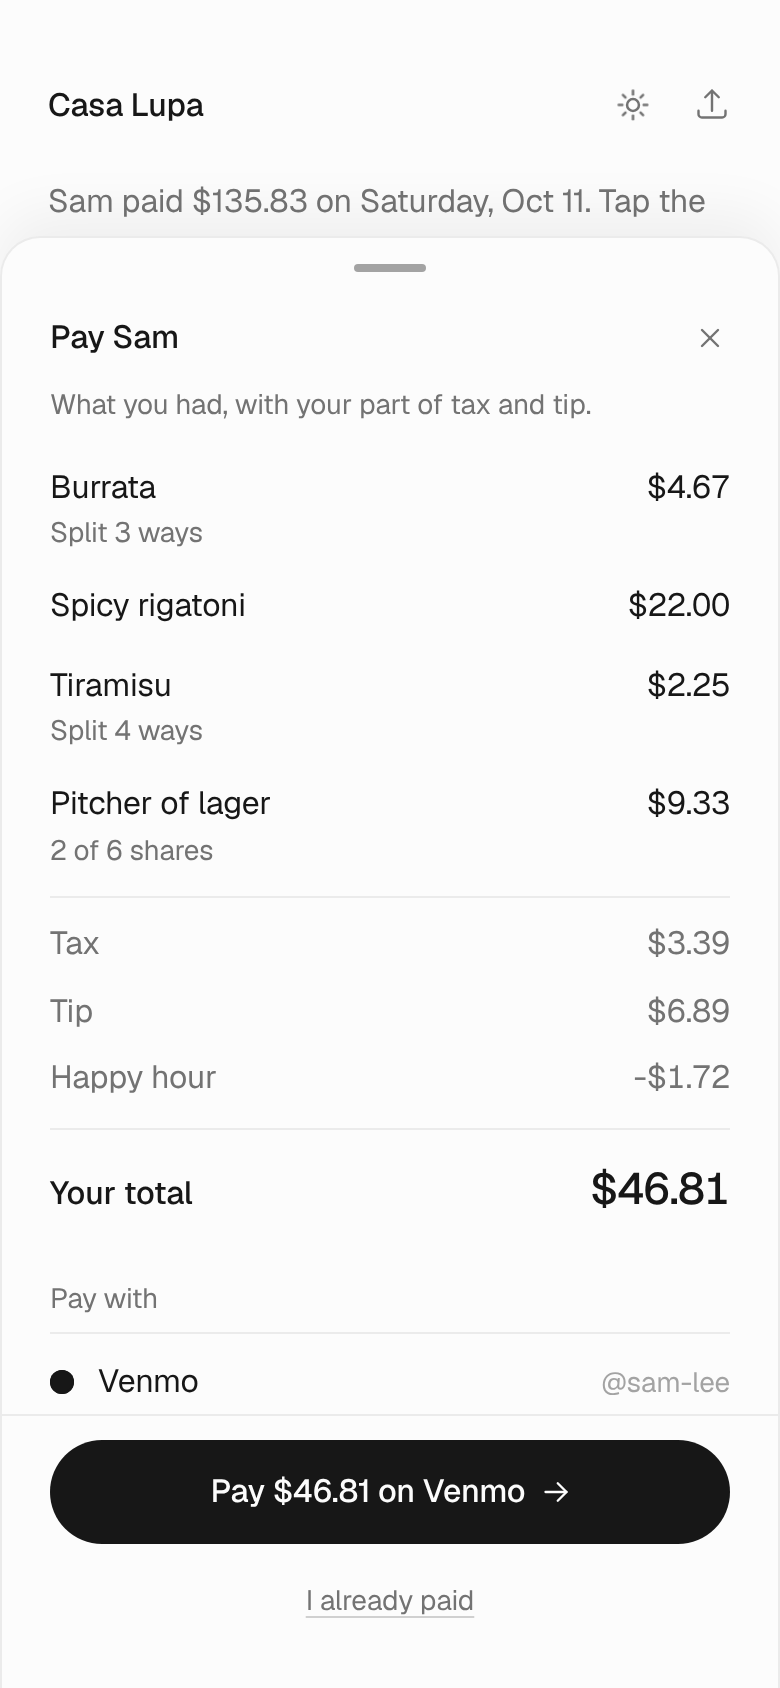
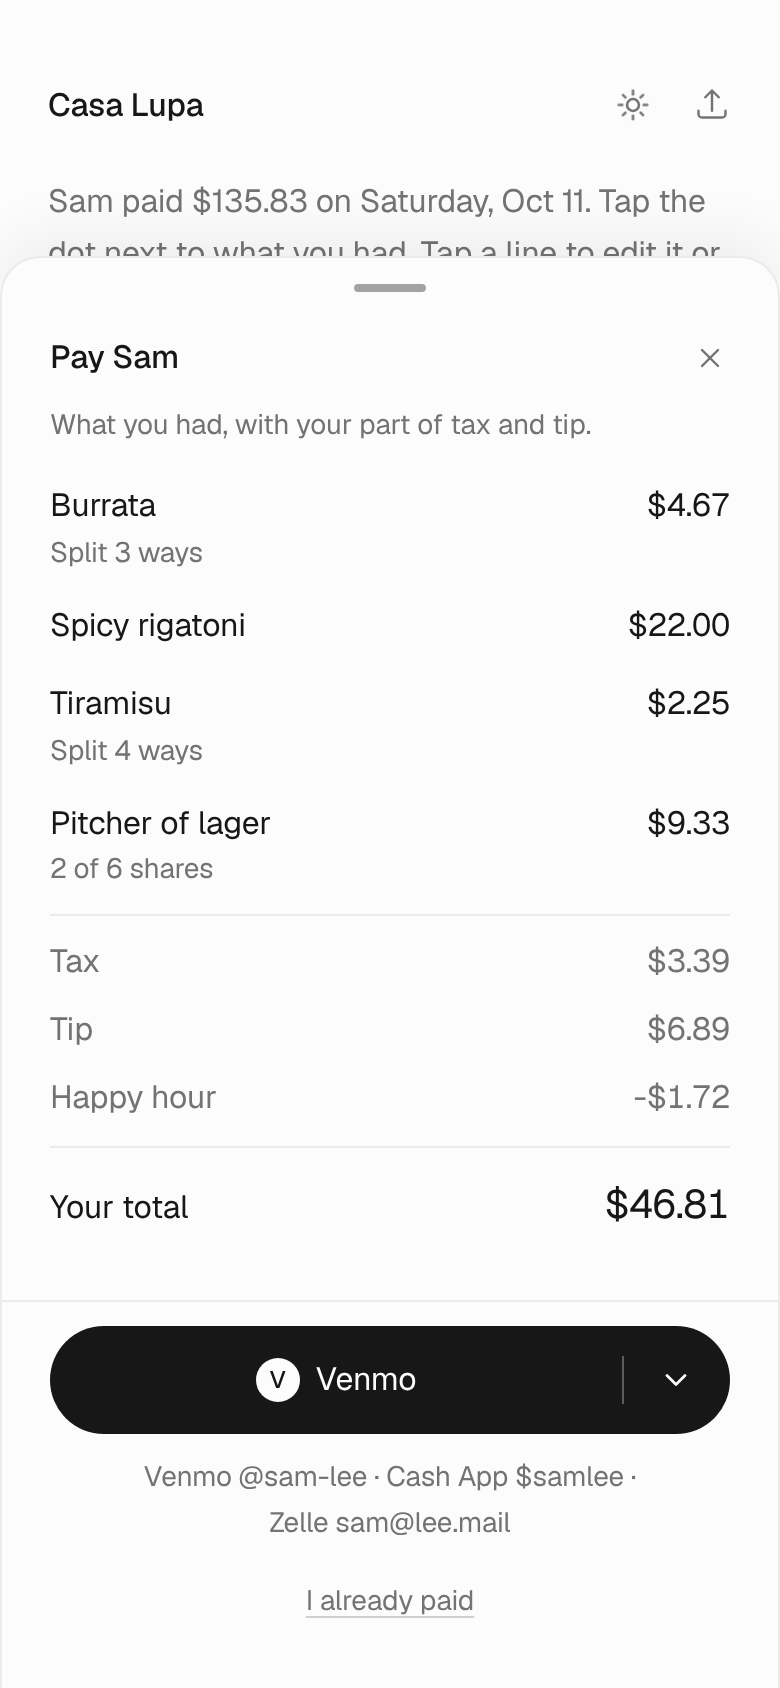
docs(design): keep the original pay pill in the B2 Pay sheet
The operator preferred today's pill, with the app switcher inside it,
over a radio list, and asked for regular weight in the lists.

Claude-Session: https://claude.ai/code/session_016x8VAK4vSURmZ58jd7QJKC

diff --git a/docs/design/b2/split.dc.html b/docs/design/b2/split.dc.html
@@ -105,18 +105,26 @@ body{margin:0}
 .b-pnote{display:block;font-size:14px;line-height:20px;color:var(--muted)}
 .b-pcharges{margin-top:6px;padding-top:6px;border-top:1px solid var(--line);color:var(--muted)}
 .b-pcharges .b-pline{padding:4px 0}
-.b-ptotal{display:flex;justify-content:space-between;align-items:baseline;margin-top:8px;padding-top:12px;border-top:1px solid var(--line);font-weight:500;font-variant-numeric:tabular-nums}
+.b-ptotal{display:flex;justify-content:space-between;align-items:baseline;margin-top:8px;padding-top:12px;border-top:1px solid var(--line);font-variant-numeric:tabular-nums}
 .b .b-method{display:flex;align-items:center;gap:12px;width:100%;min-height:48px;border-top:1px solid var(--line);color:var(--muted);transition:color 150ms ease}
 .b .b-method[data-on="true"]{color:var(--fg)}
 .b-method i{flex:none;width:12px;height:12px;border-radius:50%;box-shadow:inset 0 0 0 1px var(--faint);transition:background-color 150ms ease,box-shadow 150ms ease}
 .b-method[data-on="true"] i{background:var(--fg);box-shadow:inset 0 0 0 1px var(--fg)}
 .b-handle{margin-left:auto;font-size:14px;color:var(--faint)}
 .b-paybar{flex:none;padding:12px 24px 22px;border-top:1px solid var(--line);background:var(--bg)}
+.b-pill{position:relative;display:flex;height:54px;border-radius:27px;background:var(--fg);color:var(--bg);overflow:hidden;transition:transform 160ms var(--ease-out)}
+.b-pill:has(.b-pillgo:active){transform:scale(.97)}
+.b .b-pillgo{flex:1;min-width:0;display:flex;align-items:center;justify-content:center;gap:8px;font-size:16px;color:var(--bg)}
+.b-mark{width:22px;height:22px;border-radius:11px;background:var(--bg);color:var(--fg);display:grid;place-items:center;font-size:12px;font-weight:500}
+.b-switch{position:relative;flex:none;width:54px;display:grid;place-items:center;color:var(--bg)}
+.b-switch i{position:absolute;left:0;top:15px;width:1px;height:24px;background:currentColor;opacity:.3}
+.b-switch select{position:absolute;inset:0;opacity:0;width:100%;height:100%;cursor:pointer;font-size:16px}
+.b-handles{margin:10px 4px 0;text-align:center;font-size:14px;color:var(--muted)}
 .b .b-paybtn{width:100%;height:52px;border-radius:26px;background:var(--fg);color:var(--bg);display:flex;align-items:center;justify-content:center;gap:8px;font-size:16px;font-weight:500;transition:transform 160ms var(--ease-out)}
 .b .b-paybtn:active{transform:scale(.97)}
 .b .b-already{display:block;margin:6px auto 0;height:44px;font-size:14px;color:var(--muted);text-decoration-line:underline;text-decoration-thickness:1px;text-underline-offset:3px;text-decoration-color:var(--underline);transition:color 150ms ease}
 .b .b-already:active{color:var(--fg)}
-.b-paidnote{display:flex;align-items:center;justify-content:center;gap:6px;height:52px;border-radius:26px;box-shadow:inset 0 0 0 1px var(--line);color:var(--ok);font-weight:500}
+.b-paidnote{display:flex;align-items:center;justify-content:center;gap:6px;height:52px;border-radius:26px;box-shadow:inset 0 0 0 1px var(--line);color:var(--ok)}
 .b .b-pay[data-paid="true"]{background:transparent !important;color:var(--ok) !important;box-shadow:inset 0 0 0 1px var(--line)}
 @media (prefers-reduced-motion:reduce){.b-done{animation:none}}
 [data-play] .ai-tray .arrow,.ai-tray[data-play] .arrow{animation:ai-lift 500ms ease-in-out}
@@ -222,7 +230,7 @@ body{margin:0}
 </sc-if>
 
 <div class="b-reveal" style="--i: 3; display: flex; justify-content: space-between; align-items: baseline; margin: 44px 0 12px">
-<h2 style="margin: 0; font-size: 16px; font-weight: 500">Items</h2>
+<h2 style="margin: 0; font-size: 16px; font-weight: 400">Items</h2>
 <span style="font-size: 14px; color: var(--muted); font-variant-numeric: tabular-nums">{{countText}}</span>
 </div>
 <div class="b-rows b-reveal" style="--i: 4">
@@ -265,8 +273,8 @@ body{margin:0}
 </section>
 
 <div style="margin-top: 10px; border-top: 1px solid var(--line); padding: 12px 0 0 26px; display: flex; justify-content: space-between; align-items: baseline; font-variant-numeric: tabular-nums">
-<span style="font-weight: 500">Total</span>
-<span style="font-weight: 500">{{total}}</span>
+<span>Total</span>
+<span>{{total}}</span>
 </div>
 </div>
 
@@ -305,19 +313,17 @@ body{margin:0}
 <div class="b-pline"><span>{{c.name}}</span><span>{{c.amount}}</span></div>
 </sc-for>
 </div>
-<div class="b-ptotal"><span>{{pay.totalLabel}}</span><span style="font-size: 22px; letter-spacing: -0.02em">{{pay.total}}</span></div>
+<div class="b-ptotal"><span>{{pay.totalLabel}}</span><span style="font-size: 20px; letter-spacing: -0.015em">{{pay.total}}</span></div>
 <sc-if value="{{pay.unpaid}}" hint-placeholder-val="{{true}}">
-<div class="b-sechead" style="margin: 26px 0 6px; color: var(--muted)">Pay with</div>
-<div role="radiogroup" aria-label="Pay with">
-<sc-for list="{{pay.methods}}" as="m" hint-placeholder-count="3">
-<button class="b-method" role="radio" aria-checked="{{m.on}}" data-on="{{m.onAttr}}" onClick="{{m.pick}}"><i></i><span>{{m.app}}</span><span class="b-handle">{{m.handle}}</span></button>
-</sc-for>
-</div>
 </sc-if>
 </div>
 <div class="b-paybar">
 <sc-if value="{{pay.unpaid}}" hint-placeholder-val="{{true}}">
-<button class="b-paybtn" data-anim onClick="{{pay.go}}">{{pay.goLabel}}<sc-if value="{{pay.goArrow}}" hint-placeholder-val="{{true}}"><svg class="ai ai-arrow" width="14" height="14" viewBox="0 0 24 24" fill="none" stroke="currentColor" stroke-width="2" stroke-linecap="round" stroke-linejoin="round" aria-hidden="true"><path class="head" d="M13.5 4.5 21 12m0 0-7.5 7.5"></path><path class="line" d="M21 12H3"></path></svg></sc-if></button>
+<div class="b-pill">
+<button class="b-pillgo" data-anim aria-label="{{pay.goName}}" onClick="{{pay.go}}"><sc-if value="{{pay.copyMode}}" hint-placeholder-val="{{false}}"><svg width="17" height="17" viewBox="0 0 24 24" fill="none" stroke="currentColor" stroke-width="1.7" stroke-linecap="round" stroke-linejoin="round" aria-hidden="true"><rect x="8" y="8" width="12" height="12" rx="2"></rect><path d="M16 8V6a2 2 0 0 0-2-2H6a2 2 0 0 0-2 2v8a2 2 0 0 0 2 2h2"></path></svg></sc-if><sc-if value="{{pay.copiedNow}}" hint-placeholder-val="{{false}}"><svg class="ai ai-check" width="17" height="17" viewBox="0 0 24 24" fill="none" stroke="currentColor" stroke-width="2" stroke-linecap="round" stroke-linejoin="round" aria-hidden="true"><path pathLength="1" d="m4.5 12.75 6 6 9-13.5"></path></svg></sc-if><sc-if value="{{pay.showMark}}" hint-placeholder-val="{{true}}"><span class="b-mark" aria-hidden="true">{{pay.glyph}}</span></sc-if><span>{{pay.goLabel}}</span></button>
+<span class="b-switch"><i aria-hidden="true"></i><svg width="18" height="18" viewBox="0 0 24 24" fill="none" stroke="currentColor" stroke-width="1.8" stroke-linecap="round" stroke-linejoin="round" aria-hidden="true"><path d="m6 9 6 6 6-6"></path></svg><select aria-label="Pay with" onChange="{{pay.pickMethod}}" value="{{pay.methodId}}"><sc-for list="{{pay.methods}}" as="m" hint-placeholder-count="3"><option value="{{m.id}}">{{m.app}}</option></sc-for></select></span>
+</div>
+<p class="b-handles">{{pay.handles}}</p>
 <button class="b-already" onClick="{{pay.markPaid}}">I already paid</button>
 </sc-if>
 <sc-if value="{{pay.paid}}" hint-placeholder-val="{{false}}">
@@ -547,7 +553,7 @@ const TAX = 0.08875;
 const TIP = 0.18;
 const DISCOUNT = -500;
 const MODES = [{ key: 'even', label: 'Evenly' }, { key: 'shares', label: 'By shares' }, { key: 'amount', label: 'By amount' }];
-const METHODS = [{ id: 'venmo', app: 'Venmo', handle: '@sam-lee' }, { id: 'cashapp', app: 'Cash App', handle: '$samlee' }, { id: 'zelle', app: 'Zelle', handle: 'sam@lee.mail' }];
+const METHODS = [{ id: 'venmo', app: 'Venmo', glyph: 'V', handle: '@sam-lee' }, { id: 'cashapp', app: 'Cash App', glyph: '$', handle: '$samlee' }, { id: 'zelle', app: 'Zelle', glyph: 'Z', handle: 'sam@lee.mail' }];
 const money = (c) => { const r = Math.round(c); return (r < 0 ? '-$' : '$') + (Math.abs(r) / 100).toFixed(2); };
 const cents = (t) => { const n = parseFloat(String(t == null ? '' : t).replace(/[^0-9.]/g, '')); return isFinite(n) ? Math.round(n * 100) : 0; };
 const byId = {};
@@ -821,9 +827,16 @@ class Component extends DCLogic {
       total: share,
       paid, unpaid: !paid, paidAttr: String(paid),
       paidLine: (isSelf ? 'You' : vName) + ' paid ' + share,
-      methods: METHODS.map((m) => ({ app: m.app, handle: m.handle, on: m.id === method.id, onAttr: String(m.id === method.id), pick: () => this.set({ payWith: m.id }) })),
-      goLabel: method.id === 'zelle' ? (s.copied ? 'Copied' : 'Copy Zelle email') : 'Pay ' + share + ' on ' + method.app,
-      goArrow: method.id !== 'zelle',
+      methods: METHODS.map((m) => ({ id: m.id, app: m.app })),
+      methodId: method.id,
+      pickMethod: (e) => this.set({ payWith: e.target.value, copied: false }),
+      handles: METHODS.map((m) => m.app + '\u00a0' + m.handle).join('\u00a0· '),
+      glyph: method.glyph,
+      copyMode: method.id === 'zelle' && !s.copied,
+      copiedNow: method.id === 'zelle' && !!s.copied,
+      showMark: !(method.id === 'zelle' && s.copied),
+      goLabel: method.id === 'zelle' && s.copied ? 'Copied' : method.app,
+      goName: method.id === 'zelle' ? (s.copied ? 'Copied' : 'Copy ' + method.handle + ' to pay Sam ' + share + ' on Zelle') : 'Pay Sam ' + share + ' on ' + method.app,
       go: () => { if (method.id === 'zelle') { this.set({ copied: true }); clearTimeout(this.copyT); this.copyT = setTimeout(() => this.set({ copied: false }), 1600); } },
       markPaid: () => setPaid(true, 'Marked ' + share + ' as paid'),
       unmark: () => setPaid(false, null),

diff --git a/docs/plans/splitwith-b2.md b/docs/plans/splitwith-b2.md
@@ -374,7 +374,7 @@ Each live lane runs in its own worktree at the PR head, with its own app instanc
 - [ ] Header with the wordmark as the Home button (Appendix B), the theme toggle and the share icon. The menu button goes.
 - [ ] The intro line ("Sam paid $135.83. Tap the dot next to what you had. Tap a line to edit it or split it another way.") and the Receipt, People, Payments and History links that open their existing sheets.
 - [ ] A fixed footer with "Your share" (or "Priya's share"), the amount, the Items count line, and a "Pay Sam" pill.
-- [ ] The pill opens the Pay sheet (decision 25, `docs/design/b2/screens/split-17-pay.png` to `split-21-pay-dark.png`). It lists the viewed person's Items with their part, their part of each Adjustment, and their total, then the Host's payment methods as a radio list, a Pay button for the chosen method (Zelle copies the handle and says "Copied"), and "I already paid". The buttons sit in a bar fixed to the bottom of the sheet. Marking paid closes the sheet, turns the footer pill into a green "✓ Paid", and shows an undo bar. The Pay sheet replaces the folding breakdown and keeps every behavior of `Breakdown` and `PayBlock`.
+- [ ] The pill opens the Pay sheet (decision 25, `docs/design/b2/screens/split-17-pay.png` to `split-21-pay-dark.png`). It lists the viewed person's Items with their part, their part of each Adjustment, and their total, in regular weight, then today's pay pill from `PayBlock` unchanged in behavior (app mark and name, the chevron switcher, Zelle copy, the handles line) and "I already paid". The pill and "I already paid" sit in a bar fixed to the bottom of the sheet. Marking paid closes the sheet, turns the footer pill into a green "✓ Paid", and shows an undo bar. The Pay sheet replaces the folding breakdown and keeps every behavior of `Breakdown` and `PayBlock`.
 - [ ] Desktop renders the same single column, centered (Appendix B).
 
 **You see.**

diff --git a/docs/design/b2/README.md b/docs/design/b2/README.md
@@ -33,7 +33,7 @@ The operator made these calls while iterating. They win over older design docs a
 16. Payments sheet: a monochrome ring with round caps. The selected person's arc is black, the rest gray. Tapping a row selects that person. The ring draws in, one arc after another, when the sheet opens. "Paid" rows read "✓ Paid" in green.
 17. History sheet: every change with an underlined Revert (or Restore) link and an animated undo arrow. The arrow swings back, then the row settles to a gray "✓ Reverted".
 
-25. Pay sheet (operator, 2026-10-14): "Pay Sam" opens a sheet with the person's Items and their part of each, their part of tax, tip and discounts, and their total. Below it, the Host's payment methods as a radio list, a Pay button for the chosen one (Zelle copies the handle), and "I already paid". The two buttons stay fixed at the bottom of the sheet. Marking paid closes the sheet, shows an undo bar, and turns the footer pill into a green "✓ Paid". Tapping it again shows "You paid $X" with "Mark as not paid". Screens `split-17` to `split-21`.
+25. Pay sheet (operator, 2026-10-14): "Pay Sam" opens a sheet with the person's Items and their part of each, their part of tax, tip and discounts, and their total, all in regular weight. Below it sits the original pay pill: one black pill with the app mark and name, and a chevron end set off by a hairline that switches the app (a native select). Zelle shows a copy icon, copies the handle and says "Copied". The handles are listed in gray under the pill, then "I already paid". The pill and "I already paid" stay fixed at the bottom of the sheet. Marking paid closes the sheet, shows an undo bar, and turns the footer pill into a green "✓ Paid". Tapping it again shows "You paid $X" with "Mark as not paid". Screens `split-17` to `split-21`.
 
 ### Home
 
